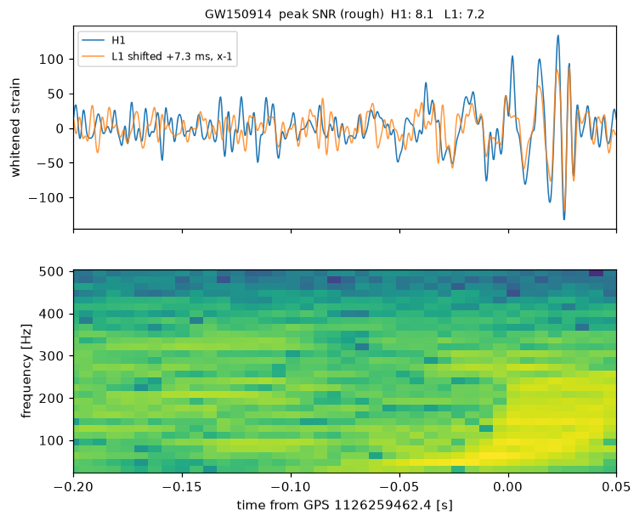
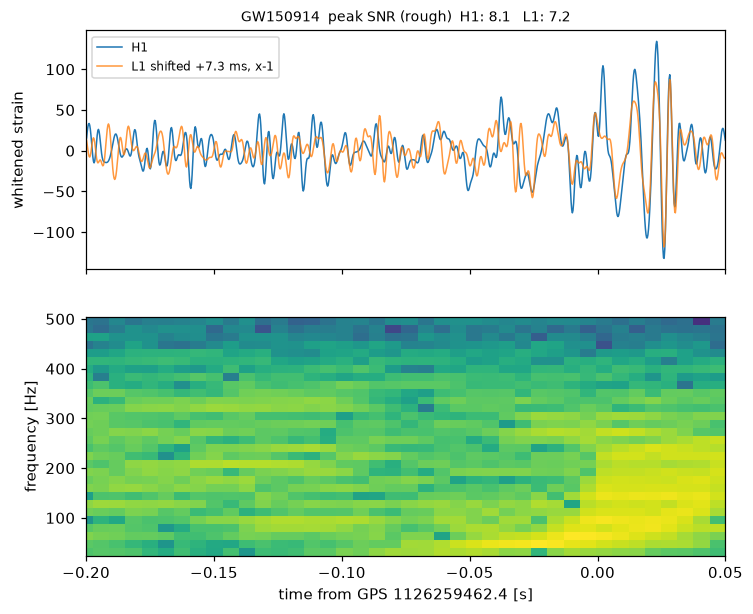
Use the store-copied R runtime and Cas A trigger

diff --git a/tests/python/test_demos.py b/tests/python/test_demos.py
@@ -285,17 +285,17 @@ def test_live_stream_keeps_chart_on_cancel_and_resets_on_rerun(live):
     assert wait_run(c, rid2).state == RunState.cancelled
 
 
-@pytest.mark.parametrize("demo,card,members", [
-    ("casa", "rgb", {"casa-rgb.png", "provenance.json"}),
-    ("gw150914", "chirp", {"chirp.png", "snr.csv"}),
+@pytest.mark.parametrize("demo,trigger,card,members", [
+    ("casa", "load", "rgb", {"casa-rgb.png", "provenance.json"}),
+    ("gw150914", "start", "chirp", {"chirp.png", "snr.csv"}),
 ])
 @pytest.mark.skipif(os.environ.get("TSUGUMI_TEST_NETWORK_DEMOS") != "1",
                     reason="downloads observations from HEASARC or GWOSC")
-def test_network_demo_keeps_results(tmp_path, demo, card, members):
+def test_network_demo_keeps_results(tmp_path, demo, trigger, card, members):
     env = demo_environment(tmp_path, demo, language="en")
     try:
         client = connect(env)
-        run_id = start_run(client, "start")
+        run_id = start_run(client, trigger)
         status = wait_run(client, run_id, timeout=900)
         assert status.state == RunState.succeeded, status.failure and text(status.failure.diagnostic)
         artifact, = client.call("ArtifactListRequest", runId=run_id, card=path(card)).artifacts
